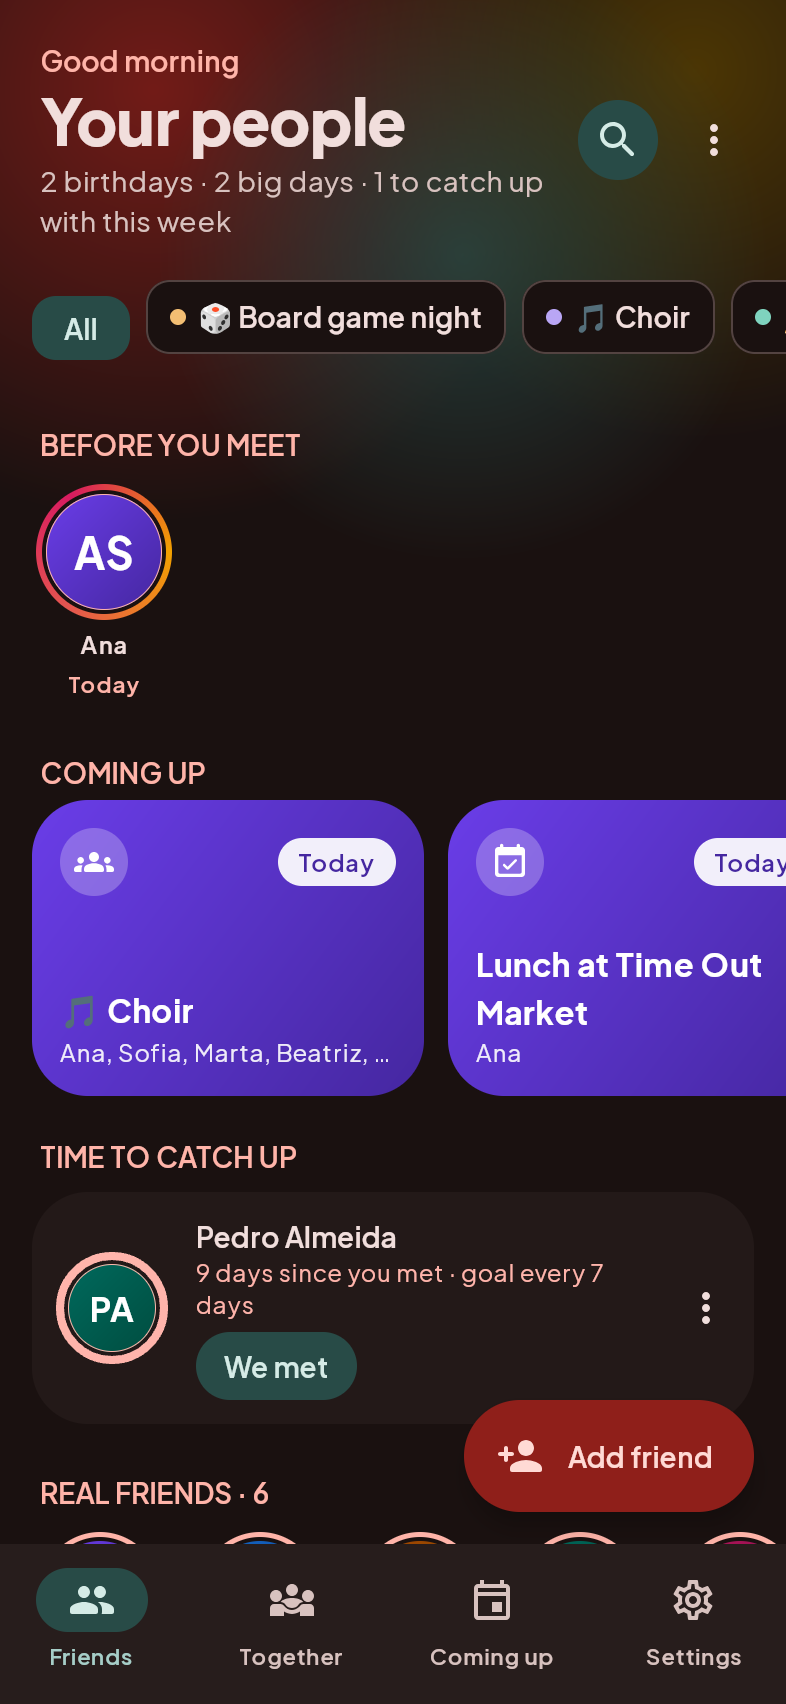
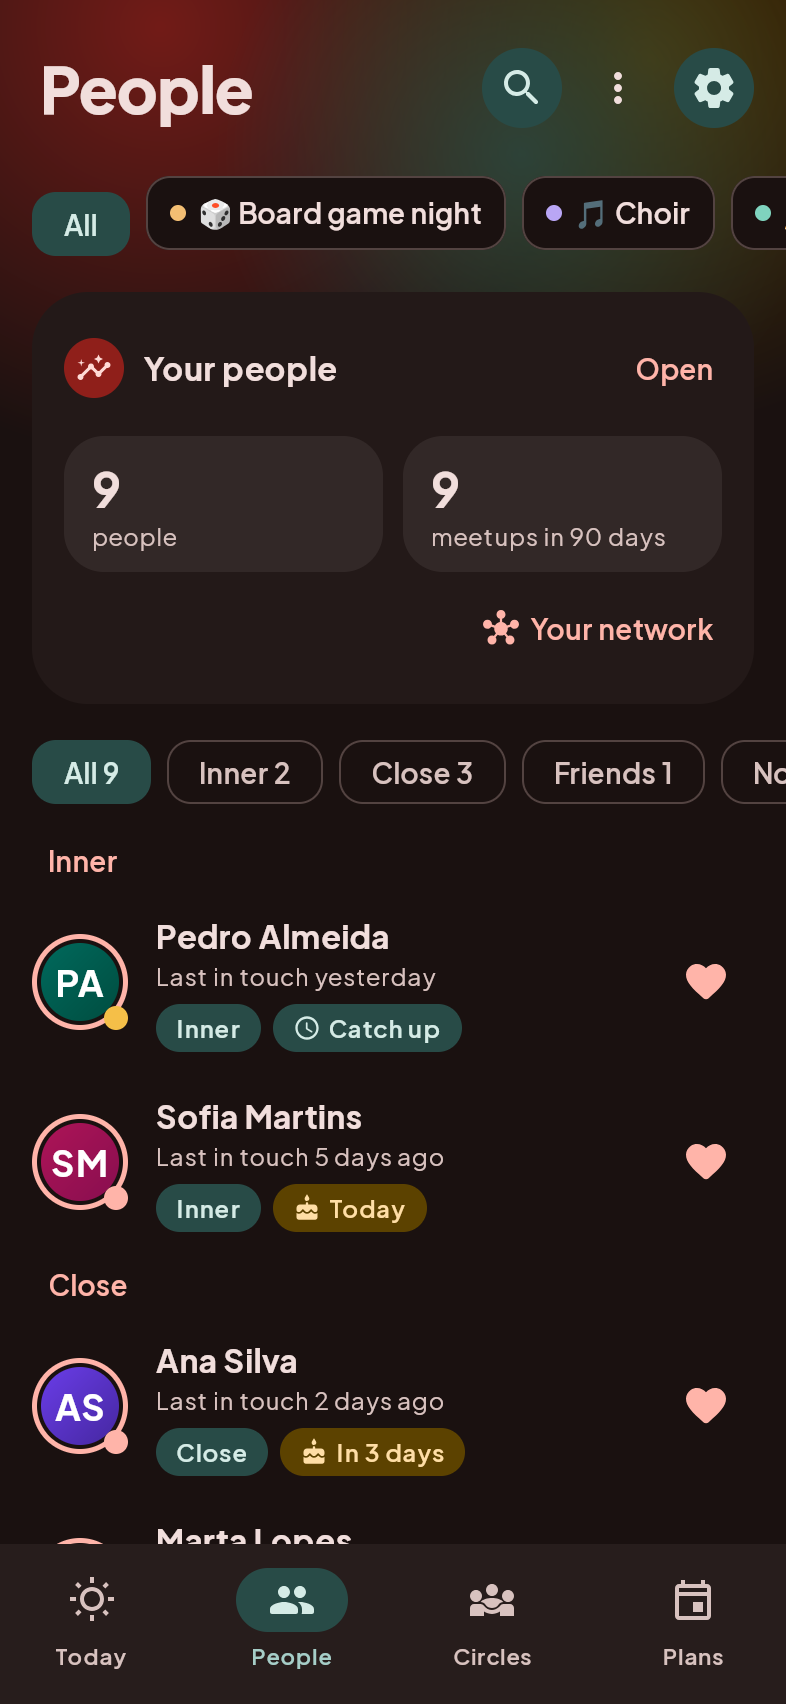
docs(screenshots): refresh for the v1 layout
Re-render every README screenshot and the banner from the web build of
main at 5ff361a (the 11 new-layout issues). Scenes use the new tabs:
home is now People, together is Circles, agenda is Today, ideas is Plans,
and the check-in opens from Today's "I'm with…" card.

capture.js now waits until the onboarding pager is gone instead of a
fixed 90 s (sample data can take minutes to load through OPFS), allows
4 s between scripted taps, and takes PORT / WAIT_MS from the environment.

diff --git a/scripts/screenshots/capture.js b/scripts/screenshots/capture.js
@@ -5,27 +5,28 @@ const { chromium } = require('playwright');
 const http = require('http');
 const fs = require('fs');
 const path = require('path');
+const zlib = require('zlib');
 
 const root = path.resolve(__dirname, '../..');
 const site = path.join(root, 'build/web-preview');
 const out = path.join(root, 'docs/screenshots');
-const PORT = 8765;
+const PORT = Number(process.env.PORT) || 8765;
 
 const phone = { width: 393, height: 852 };
 const scenes = [
   { name: 'onboarding', query: '?onboarding&theme=light', viewport: phone },
-  { name: 'home', query: '?demo&theme=light', viewport: phone },
+  { name: 'home', query: '?demo&theme=light&tab=people', viewport: phone },
   { name: 'friend', query: '?demo&theme=light&friend=sample-ana', viewport: phone },
-  { name: 'together', query: '?demo&theme=light&tab=together', viewport: phone },
-  // Taps the big "I'm with…" button (CSS px) to show the check-in sheet.
-  { name: 'checkin', query: '?demo&theme=light&tab=together', viewport: phone, clicks: [[196, 214], [86, 335], [89, 431]] },
-  { name: 'agenda', query: '?demo&theme=light&tab=agenda', viewport: phone },
-  { name: 'ideas', query: '?demo&ai&theme=light&tab=ideas', viewport: phone },
+  { name: 'together', query: '?demo&theme=light&tab=circles', viewport: phone },
+  // Taps the "I'm with…" card on Today (CSS px) to show the check-in sheet.
+  { name: 'checkin', query: '?demo&theme=light&tab=today', viewport: phone, clicks: [[300, 30], [335, 144], [76, 316], [240, 364]] },
+  { name: 'agenda', query: '?demo&theme=light&tab=today', viewport: phone },
+  { name: 'ideas', query: '?demo&ai&theme=light&tab=plans', viewport: phone },
   { name: 'settings', query: '?demo&theme=light&tab=settings', viewport: phone },
-  { name: 'home-dark', query: '?demo&theme=dark', viewport: phone },
+  { name: 'home-dark', query: '?demo&theme=dark&tab=people', viewport: phone },
   { name: 'friend-dark', query: '?demo&theme=dark&friend=sample-sofia', viewport: phone },
-  { name: 'together-dark', query: '?demo&theme=dark&tab=together', viewport: phone },
-  { name: 'agenda-dark', query: '?demo&theme=dark&tab=agenda', viewport: phone },
+  { name: 'together-dark', query: '?demo&theme=dark&tab=circles', viewport: phone },
+  { name: 'agenda-dark', query: '?demo&theme=dark&tab=today', viewport: phone },
   { name: 'desktop', query: '?demo&theme=light', viewport: { width: 1280, height: 800 } },
   { name: 'review', query: '?demo&theme=light&review', viewport: phone, wait: 92000 },
   { name: 'story', query: '?demo&theme=light&story=sample-ana', viewport: phone },
@@ -42,6 +43,27 @@ const server = http.createServer((req, res) => {
   res.writeHead(200, { 'Content-Type': types[path.extname(file)] || 'application/octet-stream' });
   fs.createReadStream(file).pipe(res);
 });
+
+// One CSS pixel of the page as [r, g, b] (1×1 PNG: inflate the IDAT, skip the filter byte).
+async function pixel(page, x, y) {
+  const png = await page.screenshot({ clip: { x, y, width: 1, height: 1 }, scale: 'css' });
+  const chunks = [];
+  for (let i = 8; i < png.length;) {
+    const len = png.readUInt32BE(i);
+    if (png.toString('ascii', i + 4, i + 8) === 'IDAT') chunks.push(png.subarray(i + 8, i + 8 + len));
+    i += 12 + len;
+  }
+  const raw = zlib.inflateSync(Buffer.concat(chunks));
+  return [raw[1], raw[2], raw[3]];
+}
+
+// True while the onboarding pager's wide "Next" button (a saturated colour in light and dark) is on screen.
+async function onOnboarding(page, viewport) {
+  const [y, xs] = viewport.width > 600 ? [748, [420, 860]] : [804, [40, 350]];
+  const [a, b] = [await pixel(page, xs[0], y), await pixel(page, xs[1], y)];
+  const flat = a.every((v, i) => Math.abs(v - b[i]) < 6);
+  return flat && a[0] - a[1] >= 50 && a[0] - a[2] >= 40;
+}
 
 (async () => {
   if (!fs.existsSync(path.join(site, 'index.html'))) throw new Error('Run scripts/screenshots/assemble-web.sh first');
@@ -63,10 +85,17 @@ const server = http.createServer((req, res) => {
     await page.waitForSelector('canvas', { timeout: 60000 });
     // Fonts, sample data and entry animations. Writing the sample circle through the SQLite (OPFS) worker takes a while
     // in headless Chromium, so the onboarding screen can still be up after a minute.
-    await page.waitForTimeout(scene.wait || 90000);
+    // The first-run screen stays up until the sample data is in, which can take minutes, so wait until it's gone.
+    await page.waitForTimeout(scene.wait || Number(process.env.WAIT_MS) || 15000);
+    if (scene.query.includes('demo')) {
+      const deadline = Date.now() + 420000;
+      while ((await onOnboarding(page, scene.viewport)) && Date.now() < deadline) await page.waitForTimeout(5000);
+      if (await onOnboarding(page, scene.viewport)) console.log(`[${scene.name}] WARNING: still on onboarding`);
+      await page.waitForTimeout(8000); // entry animations, images
+    }
     for (const [x, y] of scene.clicks || []) {
       await page.mouse.click(x, y);
-      await page.waitForTimeout(1800);
+      await page.waitForTimeout(4000); // let sheets finish opening before the next tap
     }
     if (scene.clicks) { await page.mouse.move(1, 1); await page.waitForTimeout(600); } // drop hover highlights
     await page.screenshot({ path: path.join(out, `${scene.name}.png`) });

diff --git a/.claude/skills/capture-screenshots/SKILL.md b/.claude/skills/capture-screenshots/SKILL.md
@@ -23,7 +23,8 @@ from the wasmJs build. No bundler is needed, so this works where `wasmJsBrowserD
    ```
    Scenes live in `scripts/screenshots/capture.js`. Each is a URL query parsed by
    `composeApp/src/commonMain/.../LaunchOptions.kt`:
-   `demo` (load sample friends), `ai` (turn the AI switch on; `tab=ideas` needs it), `tab=friends|together|agenda|ideas|settings`, `friend=<id>` (e.g. `sample-ana`),
+   `demo` (load sample friends), `ai` (turn the AI switch on), `tab=today|people|circles|plans|settings` (the old
+   `friends|together|agenda|ideas` still map to the tab that replaced them), `friend=<id>` (e.g. `sample-ana`),
    `theme=light|dark`, `onboarding`. `clicks: [[x, y], …]` taps CSS-pixel coordinates after load (used for the
    check-in sheet). Phone viewport is 393×852 at 2× scale.
 3. Rebuild the README banner (needs Pillow):
@@ -38,6 +39,11 @@ from the wasmJs build. No bundler is needed, so this works where `wasmJsBrowserD
 
 - Sample data comes from `core/domain/.../usecase/SampleData.kt` and is dated relative to today, so there's always
   something coming up. Don't hand-edit screenshots or invent UI that isn't in the code.
-- Rendering uses SwiftShader (software WebGL), so allow about 10 s per scene. The default wait is 9 s; raise `wait`
-  on a scene if fonts haven't loaded yet.
+- Rendering uses SwiftShader (software WebGL). Loading the sample data through the OPFS worker can take from under a
+  minute to several minutes, so `demo` scenes wait until the onboarding pager is gone (its "Next" button's pixels;
+  7-minute cap, then a `WARNING` line) instead of a fixed time. `wait` (or `WAIT_MS`) is the minimum wait before that.
+  `PORT=8766` lets two captures run side by side. Scripted taps (`clicks`) wait 4 s each so sheets finish opening;
+  the first tap on the canvas can be swallowed, so start with a tap on empty space.
+- Playwright isn't a repo dependency: install a version whose Chromium revision is already in
+  `~/Library/Caches/ms-playwright` (e.g. `playwright@1.49.1` for `chromium-1148`) and point `NODE_PATH` at it.
 - Platform-only UI (Android dynamic colour, iOS sheets) can't be captured this way. Say so if it's asked for.
